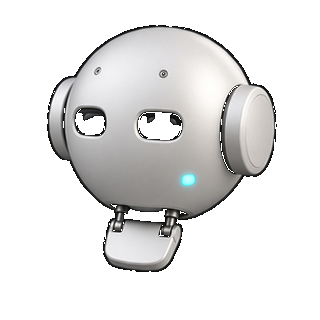
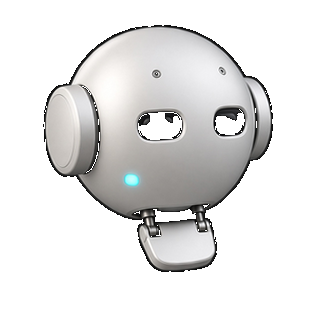
fix(buddy-bot): Flip walk frames to face right
Imagine pack walk faced left; engine expects right-facing art and
mirrors for left. Horizontally flip walk-0..7; regress on cheek-light side.

diff --git a/crates/core/tests/character_packages.rs b/crates/core/tests/character_packages.rs
@@ -213,6 +213,27 @@ fn frames_of(name: &str) -> Vec<(String, String, Vec<u8>)> {
     frames
 }
 
+/// Mean x of cyan cheek-light pixels in an RGBA PNG (Buddy Bot status LED).
+fn cyan_cheek_light_x(bytes: &[u8]) -> f32 {
+    let mut reader = png::Decoder::new(Cursor::new(bytes))
+        .read_info()
+        .expect("every frame is a PNG");
+    let width = reader.info().width as usize;
+    let mut buf = vec![0; reader.output_buffer_size().expect("frame fits in memory")];
+    let frame = reader.next_frame(&mut buf).expect("frame decodes");
+    let mut sx = 0.0f32;
+    let mut n = 0.0f32;
+    for (i, px) in buf[..frame.buffer_size()].chunks_exact(4).enumerate() {
+        let (r, g, b, a) = (px[0], px[1], px[2], px[3]);
+        if a > 128 && b > 150 && r < 120 && g > 80 {
+            sx += (i % width) as f32;
+            n += 1.0;
+        }
+    }
+    assert!(n > 0.0, "expected cyan status-light pixels");
+    sx / n
+}
+
 /// #161: every grounded pose has a foot on the canvas bottom row.
 /// Only `fall` is airborne.
 #[test]
@@ -551,6 +572,31 @@ fn buddy_bot_frames_are_320_square_rgba() {
             "{animation} frame {frame} must keep a transparent margin"
         );
     }
+}
+
+/// Walk art must face right (engine mirrors for left). The Imagine pack's walk
+/// faced left — cheek status light on the viewer's right — which read as
+/// moonwalking. After the package flip, the cyan cheek light sits in the left
+/// half like the front-facing idle frames (character's right cheek).
+#[test]
+fn buddy_bot_walk_faces_right_like_idle_cheek_light() {
+    let files = package_bytes("buddy-bot");
+    let idle = files.get("frames/idle-0.png").expect("idle-0");
+    let walk = files.get("frames/walk-0.png").expect("walk-0");
+    let (width, _, _) = frame_alpha(walk);
+    let mid = width as f32 / 2.0;
+
+    let idle_light = cyan_cheek_light_x(idle);
+    let walk_light = cyan_cheek_light_x(walk);
+
+    assert!(
+        idle_light < mid,
+        "idle cheek light is on the viewer's left, got {idle_light} mid {mid}"
+    );
+    assert!(
+        walk_light < mid,
+        "walk must face right: cheek light on viewer's left after flip, got {walk_light} mid {mid}"
+    );
 }
 
 #[test]
